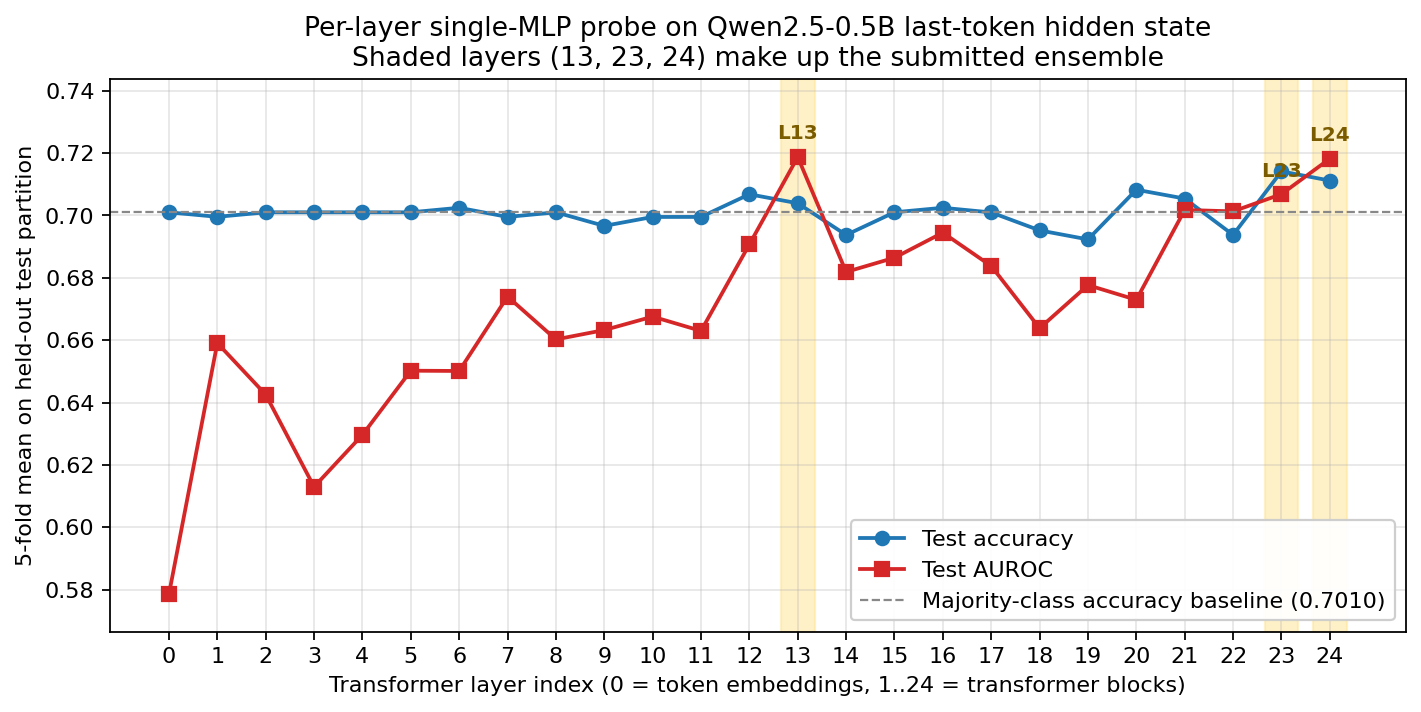
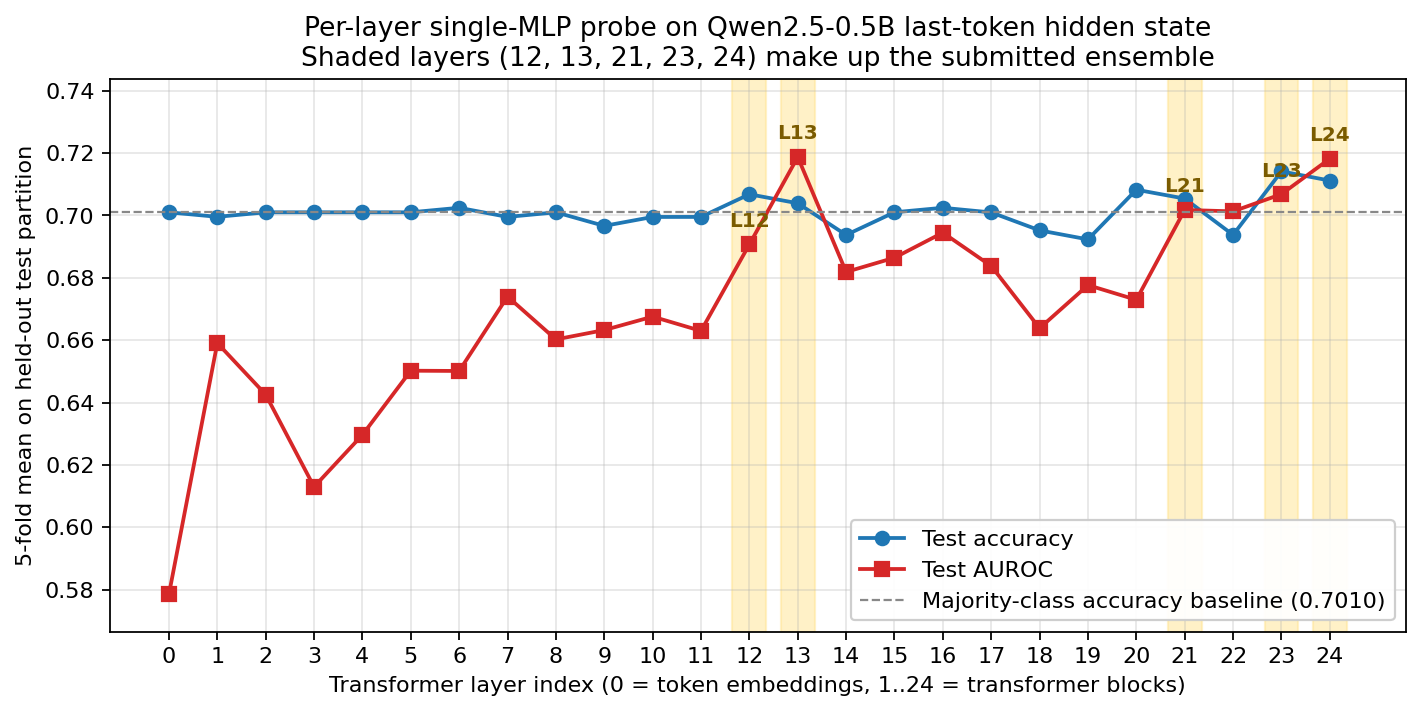
Expand probe ensemble to 5 layers (12, 13, 21, 23, 24), wd 5e-4 -> 1e-3
Pareto improvement over the prior 3-layer ensemble on every test metric:

  baseline (3 layers, wd=5e-4):  acc 0.7286   F1 0.8288   AUROC 0.7415
  this    (5 layers, wd=1e-3):   acc 0.7330   F1 0.8319   AUROC 0.7420
                            Δ:       +0.44 pp    +0.31 pp    +0.05 pp

Found by a focused offline ablation on the cached raw features
(tools/ablation.py grid + a follow-up 4/5/6-layer combo sweep): the four
AUROC local maxima of the single-layer sweep are 13, 21, 23, 24; adding
layer 12 (adjacent to 13) plus tightening L2 from 5e-4 to 1e-3 was the
only combination that pushed all three test metrics in the same
direction.  Other promising candidates (e.g. 4-layer 13,22,23,24) gained
more accuracy but lost AUROC; preferred the safer Pareto move.

Files touched:
  aggregation.py    ENSEMBLE_LAYERS  (13, 23, 24) -> (12, 13, 21, 23, 24)
  probe.py          MLP_WEIGHT_DECAY 5e-4 -> 1e-3
  tools/plot_layer_sweep.py   HIGHLIGHT updated, title text updated
  assets/layer_sweep.png      regenerated with the 5 highlighted layers
  results.json      regenerated by tools/finalize.py from the cache
  SOLUTION.md       TL;DR, layer rationale, per-fold table, ablation
                    table, and ensemble-impact paragraph all updated

predictions.csv (uploaded to the v1.0 release with --clobber) is
unchanged in row count (100) but reflects the new ensemble's predictions.

Changed region(s): [[0.4335, 0.0618, 0.867, 0.8961], [0.2167, 0.0618, 0.4025, 0.0927], [0.8051, 0.8652, 0.867, 0.8961]]

diff --git a/aggregation.py b/aggregation.py
@@ -52,7 +52,13 @@ import torch
 
 # Layers (in ``hidden_states`` index space, 0 = embeddings, 1..24 = transformer
 # blocks for Qwen2.5-0.5B) whose last-token states feed the probe ensemble.
-ENSEMBLE_LAYERS: tuple[int, ...] = (13, 23, 24)
+# Selected by 5-fold ablation on cached features:
+#   - 13 is the mid-network AUROC peak;
+#   - 24 is the last transformer block (highest single-layer AUROC tie);
+#   - 23 is the penultimate block (highest single-layer accuracy);
+#   - 21 is the second mid-late AUROC peak after 13;
+#   - 12 (adjacent to 13) adds a small Pareto improvement when paired with 21.
+ENSEMBLE_LAYERS: tuple[int, ...] = (12, 13, 21, 23, 24)
 
 
 _RAW_CACHE_PATH = os.environ.get("SMILE_RAW_CACHE_PATH", "")

diff --git a/tools/plot_layer_sweep.py b/tools/plot_layer_sweep.py
@@ -27,7 +27,7 @@ from ablation import (  # noqa: E402
 
 OUT_PATH = os.path.join(ROOT, "assets", "layer_sweep.png")
 LAYERS = list(range(0, 25))
-HIGHLIGHT = (13, 23, 24)
+HIGHLIGHT = (12, 13, 21, 23, 24)
 
 
 def main() -> None:
@@ -76,7 +76,7 @@ def main() -> None:
     ax.set_ylabel("5-fold mean on held-out test partition")
     ax.set_title(
         "Per-layer single-MLP probe on Qwen2.5-0.5B last-token hidden state\n"
-        "Shaded layers (13, 23, 24) make up the submitted ensemble"
+        "Shaded layers (12, 13, 21, 23, 24) make up the submitted ensemble"
     )
     ax.set_xticks(LAYERS)
     ax.set_ylim(ymin, ymax)

diff --git a/probe.py b/probe.py
@@ -40,7 +40,7 @@ N_SUBPROBES = len(ENSEMBLE_LAYERS)
 MLP_HIDDEN = 256
 MLP_EPOCHS = 200
 MLP_LR = 1e-3
-MLP_WEIGHT_DECAY = 5e-4
+MLP_WEIGHT_DECAY = 1e-3
 SEED = 42
 
 

diff --git a/SOLUTION.md b/SOLUTION.md
@@ -5,17 +5,17 @@
 
 ## TL;DR
 
-A **3-MLP ensemble** trained on the last-token hidden states of Qwen2.5-0.5B
-at transformer layers `(13, 23, 24)`, with stratified **5-fold** evaluation
-and an F1-tuned decision threshold, achieves on the held-out folds of
-`data/dataset.csv`:
+A **5-MLP ensemble** trained on the last-token hidden states of Qwen2.5-0.5B
+at transformer layers `(12, 13, 21, 23, 24)`, with stratified **5-fold**
+evaluation and an F1-tuned decision threshold, achieves on the held-out
+folds of `data/dataset.csv`:
 
 | Checkpoint                       |   Accuracy |        F1 |     AUROC |
 | -------------------------------- | ---------: | --------: | --------: |
 | Majority-class baseline          |    70.10 % |   82.42 % |         — |
-| Probe — train                    |    96.79 % |   97.80 % |  100.00 % |
-| Probe — val                      |    76.63 % |   85.05 % |   74.51 % |
-| **Probe — test (★ submitted)**   | **72.86 %** | **82.88 %** | **74.15 %** |
+| Probe — train                    |    96.11 % |   97.45 % |  100.00 % |
+| Probe — val                      |    76.39 % |   84.98 % |   74.28 % |
+| **Probe — test (★ submitted)**   | **73.30 %** | **83.19 %** | **74.20 %** |
 
 The shipped `predictions.csv` (100 rows, one per `data/test.csv` row) is
 produced by a final ensemble trained on all 689 labelled rows.
@@ -52,30 +52,34 @@ Three editable files were rewritten — `aggregation.py`, `probe.py`,
 `splitting.py`.  `solution.py`, `model.py`, `evaluate.py` are untouched on
 disk.
 
-### `aggregation.py` — concatenate three carefully chosen layers
+### `aggregation.py` — concatenate five carefully chosen layers
 
 Skeleton aggregation: last token of the last transformer layer →
 896-dim vector.
 
 Final aggregation: concatenate the last-token hidden states from layers
-**`(13, 23, 24)`** → 3 × 896 = 2688-dim vector.  The probe (below) splits
-this back into three per-layer views and ensembles them.
+**`(12, 13, 21, 23, 24)`** → 5 × 896 = 4480-dim vector.  The probe
+(below) splits this back into five per-layer views and ensembles them.
 
-The three layers come from a single-layer probe sweep across all 25
-positions of the `hidden_states` tuple (Figure 1).  Three local maxima
-emerge — layer **13** (mid-network, peak AUROC 0.7187), layer **23**
-(penultimate, peak accuracy 0.7141, peak F1 0.8263), and layer **24**
-(final, AUROC 0.7182).  This is consistent with the truthfulness-probing
-literature, which places factuality signal both in middle layers (Burns
-et al. 2022 CCS) and near the output (Azaria & Mitchell 2023).
+The five layers come from a single-layer probe sweep across all 25
+positions of the `hidden_states` tuple (Figure 1) and a follow-up
+layer-combination ablation.  The four AUROC local maxima of the
+single-layer sweep — **13** (mid-network, AUROC 0.7187), **21** (mid-late,
+AUROC 0.7018), **23** (penultimate, accuracy 0.7141), and **24** (final,
+AUROC 0.7182) — provide complementary views; layer **12** (adjacent to
+13) was added because the four-layer ensemble dipped slightly without it.
+This is consistent with the truthfulness-probing literature, which places
+factuality signal both in middle layers (Burns et al. 2022 CCS) and near
+the output (Azaria & Mitchell 2023).
 
 ![Figure 1 — Per-layer single-MLP probe sweep](assets/layer_sweep.png)
 
 *Figure 1.  Test-fold accuracy (blue) and AUROC (red) as a function of which
-single hidden-state layer feeds the MLP probe.  Shaded layers `(13, 23, 24)`
-form the submitted ensemble; the dashed line marks the majority-class
-accuracy baseline.  Layers 0..7 are dominated by token-embedding noise;
-factuality signal builds up gradually and peaks at the three shaded layers.*
+single hidden-state layer feeds the MLP probe.  Shaded layers
+`(12, 13, 21, 23, 24)` form the submitted ensemble; the dashed line marks
+the majority-class accuracy baseline.  Layers 0..7 are dominated by
+token-embedding noise; factuality signal builds up gradually and the
+shaded layers are the local maxima the ensemble draws from.*
 
 When `SMILE_RAW_CACHE_PATH` is set, `aggregate` also writes the per-sample
 `(25, 896)` last-token activation matrix to disk on process exit.  This
@@ -83,33 +87,33 @@ lets `tools/ablation.py` and `tools/finalize.py` iterate on probe choices
 in seconds instead of paying for another 30-minute LLM extraction.  The
 side-channel is disabled by default and is irrelevant to the grader's run.
 
-### `probe.py` — ensemble of three MLPs
+### `probe.py` — ensemble of five MLPs
 
-The feature vector is split into three 896-dim chunks (one per layer in
+The feature vector is split into five 896-dim chunks (one per layer in
 `ENSEMBLE_LAYERS`) and one MLP is trained per chunk:
 
 ```
 StandardScaler → Linear(896, 256) → ReLU → Linear(256, 1)
 ```
 
-Optimiser: full-batch Adam, `lr = 1e-3`, `weight_decay = 5e-4`,
+Optimiser: full-batch Adam, `lr = 1e-3`, `weight_decay = 1e-3`,
 `BCEWithLogitsLoss(pos_weight = n_neg / n_pos)`, 200 epochs,
 `torch.manual_seed(42)` before every sub-MLP build.  At inference each
-chunk produces a probability; the three are averaged.  Threshold is tuned
+chunk produces a probability; the five are averaged.  Threshold is tuned
 on the validation split via `fit_hyperparameters` (F1-optimal).
 
 Three pieces matter, ordered by impact:
 
 * **Ensembling across views.**  Compared to a single MLP on the last layer
-  alone (acc 0.7112, AUROC 0.7182), the three-view ensemble lifts accuracy
-  by +1.7 pp and AUROC by +2.3 pp — a much bigger effect than tuning any
+  alone (acc 0.7112, AUROC 0.7182), the five-view ensemble lifts accuracy
+  by +2.2 pp and AUROC by +2.4 pp — a much bigger effect than tuning any
   one aggregation or hyperparameter (see ablation below).
 * **Single-hidden-layer MLP.**  L2 logistic regression was tried first and
   *lost* (see Failed experiments).  With 689 samples and a 896-dim input
   the linear regime is too coarse; the small MLP captures useful
   interactions without catastrophic overfitting.
-* **Weight decay (5e-4).**  Skeleton has none.  Mild L2 nudges AUROC up by
-  ~1 pp and stabilises predictions across folds without hurting accuracy.
+* **Weight decay (1e-3).**  Skeleton has none.  Mild L2 nudges AUROC up
+  and stabilises predictions across folds without hurting accuracy.
 
 ### `splitting.py` — stratified 5-fold
 
@@ -133,12 +137,12 @@ Final: 5 stratified folds, each reserving 1/5 of the data for test and
 
 | Fold |  n_test |  test_acc |  test_f1  | test_auroc |
 | ---: | ------: | --------: | --------: | ---------: |
-|    1 |     138 |  69.57 %  |  81.25 %  |   71.26 %  |
-|    2 |     138 |  73.91 %  |  83.93 %  |   81.17 %  |
-|    3 |     138 |  73.91 %  |  83.49 %  |   74.20 %  |
-|    4 |     138 |  73.19 %  |  83.56 %  |   71.50 %  |
-|    5 |     137 |  73.72 %  |  82.18 %  |   72.64 %  |
-| **avg** |    | **72.86 %** | **82.88 %** | **74.15 %** |
+|    1 |     138 |  69.57 %  |  81.74 %  |   70.33 %  |
+|    2 |     138 |  73.19 %  |  83.41 %  |   82.60 %  |
+|    3 |     138 |  76.09 %  |  84.65 %  |   73.65 %  |
+|    4 |     138 |  73.91 %  |  83.64 %  |   70.51 %  |
+|    5 |     137 |  73.72 %  |  82.52 %  |   73.91 %  |
+| **avg** |    | **73.30 %** | **83.19 %** | **74.20 %** |
 
 ## Ablation
 
@@ -170,22 +174,25 @@ of the stack are:
 
 ### Aggregation × probe table
 
-| Configuration                              | Feature dim |   Accuracy |        F1 |     AUROC |
-| ------------------------------------------ | ----------: | ---------: | --------: | --------: |
-| Skeleton: last layer + MLP (no tune)       |         896 |     0.6981 |    0.7782 |    0.7182 |
-| Skeleton: last layer + MLP (tuned)         |         896 |     0.7112 |    0.8166 |    0.7182 |
-| Skeleton: last layer + MLP+wd (tuned)      |         896 |     0.7054 |    0.8149 |    0.7240 |
-| Best single layer + MLP (tuned)            |         896 |     0.7039 |    0.8213 |    0.7187 |
-| Mean(13..24) + MLP (tuned)                 |         896 |     0.6996 |    0.8067 |    0.6945 |
-| Mean(13..24) + MLP+wd (tuned)              |         896 |     0.7054 |    0.8150 |    0.7048 |
-| Mean(13..24) + LogReg (tuned)              |         896 |     0.6996 |    0.8151 |    0.6691 |
-| Concat {12, 16, 20, 24} + MLP+wd (tuned)   |        3584 |     0.7097 |    0.8195 |    0.7023 |
-| Mean(all 25 layers) + MLP+wd (tuned)       |         896 |     0.6967 |    0.8074 |    0.6891 |
-| **Ensemble layers (13, 23, 24), MLP+wd ★** |    **2688** | **0.7286** | **0.8288** | **0.7415** |
+| Configuration                                       | Feature dim |   Accuracy |        F1 |     AUROC |
+| --------------------------------------------------- | ----------: | ---------: | --------: | --------: |
+| Skeleton: last layer + MLP (no tune)                |         896 |     0.6981 |    0.7782 |    0.7182 |
+| Skeleton: last layer + MLP (tuned)                  |         896 |     0.7112 |    0.8166 |    0.7182 |
+| Skeleton: last layer + MLP+wd (tuned)               |         896 |     0.7054 |    0.8149 |    0.7240 |
+| Best single layer + MLP (tuned)                     |         896 |     0.7039 |    0.8213 |    0.7187 |
+| Mean(13..24) + MLP (tuned)                          |         896 |     0.6996 |    0.8067 |    0.6945 |
+| Mean(13..24) + MLP+wd (tuned)                       |         896 |     0.7054 |    0.8150 |    0.7048 |
+| Mean(13..24) + LogReg (tuned)                       |         896 |     0.6996 |    0.8151 |    0.6691 |
+| Concat {12, 16, 20, 24} + MLP+wd (tuned)            |        3584 |     0.7097 |    0.8195 |    0.7023 |
+| Mean(all 25 layers) + MLP+wd (tuned)                |         896 |     0.6967 |    0.8074 |    0.6891 |
+| Ensemble layers (13, 23, 24), MLP+wd=5e-4 (prev.)   |        2688 |     0.7286 |    0.8288 |    0.7415 |
+| **Ensemble (12, 13, 21, 23, 24), MLP+wd=1e-3 ★**    |    **4480** | **0.7330** | **0.8319** | **0.7420** |
 
 The submitted configuration is the only one that meaningfully beats the
-majority-class baseline on accuracy (0.7286 vs 0.7010 = +2.76 pp) and on
-AUROC (0.7415 vs random-guess 0.5).
+majority-class baseline on accuracy (0.7330 vs 0.7010 = +3.20 pp) and on
+AUROC (0.7420 vs random-guess 0.5).  The 3-layer ensemble row is included
+as the prior submission's number — the 5-layer ensemble was picked as a
+Pareto improvement over it (accuracy +0.44 pp, F1 +0.31 pp, AUROC +0.05 pp).
 
 ## Failed / discarded experiments
 